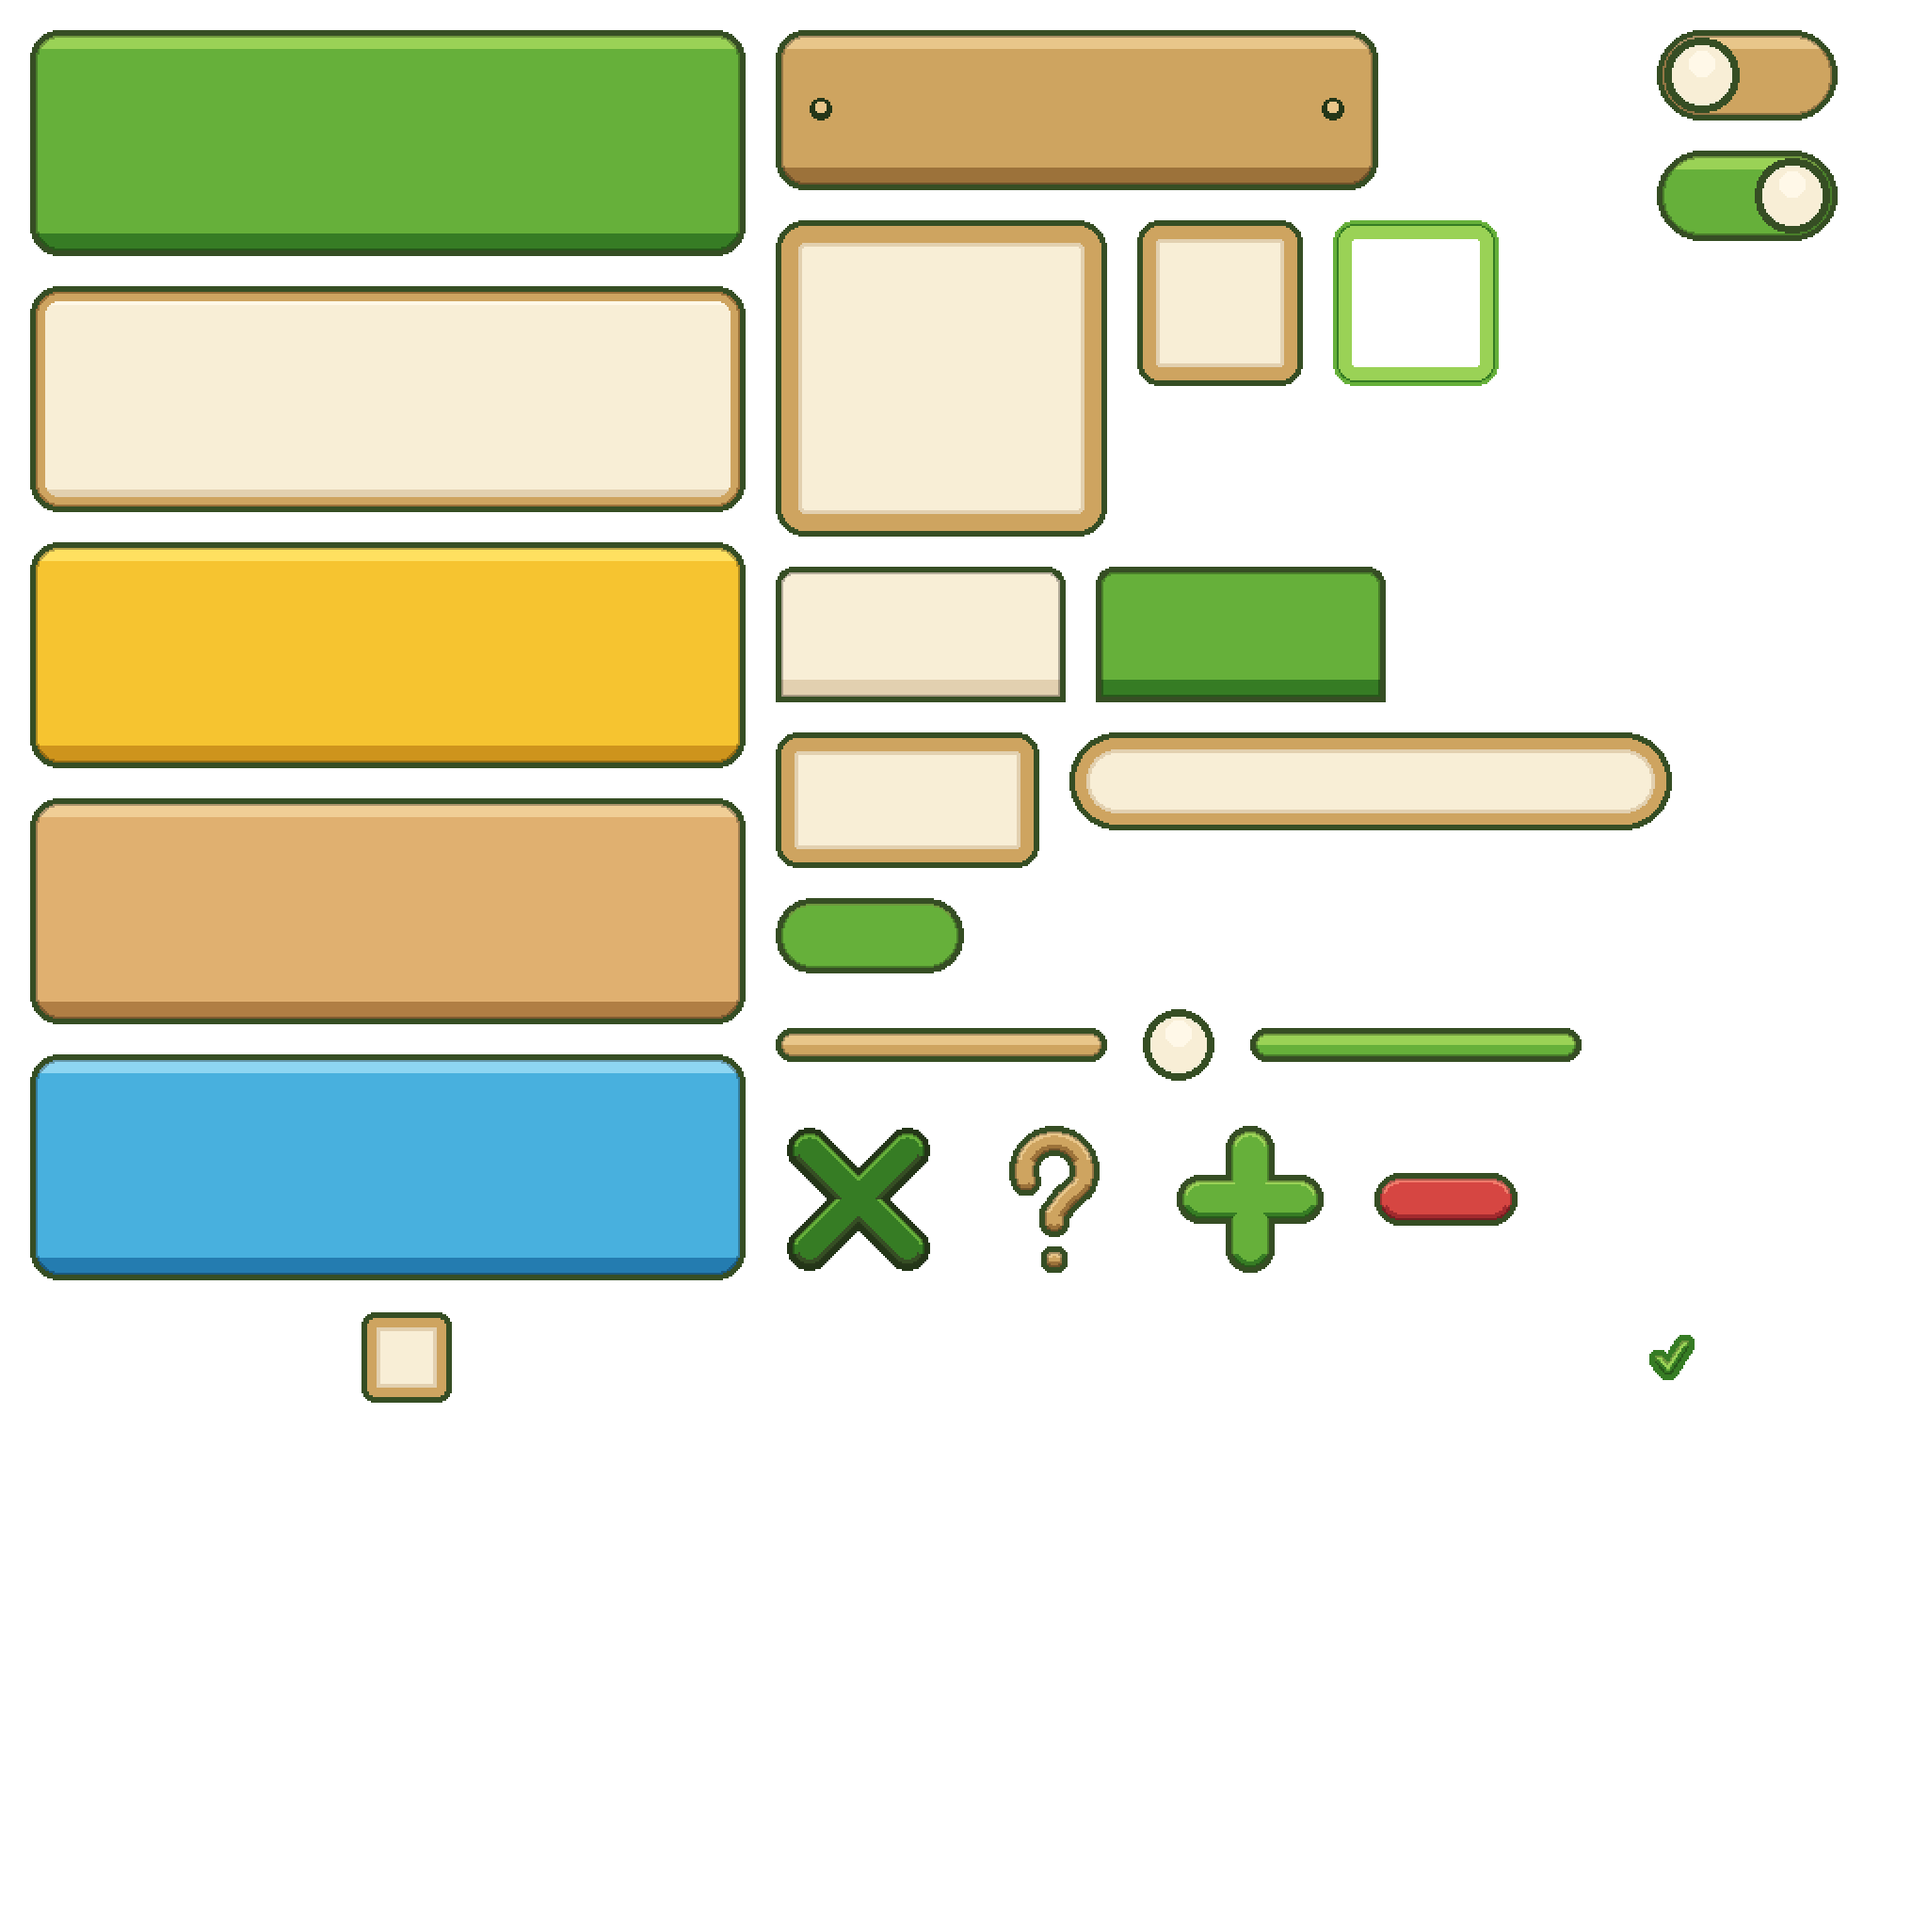
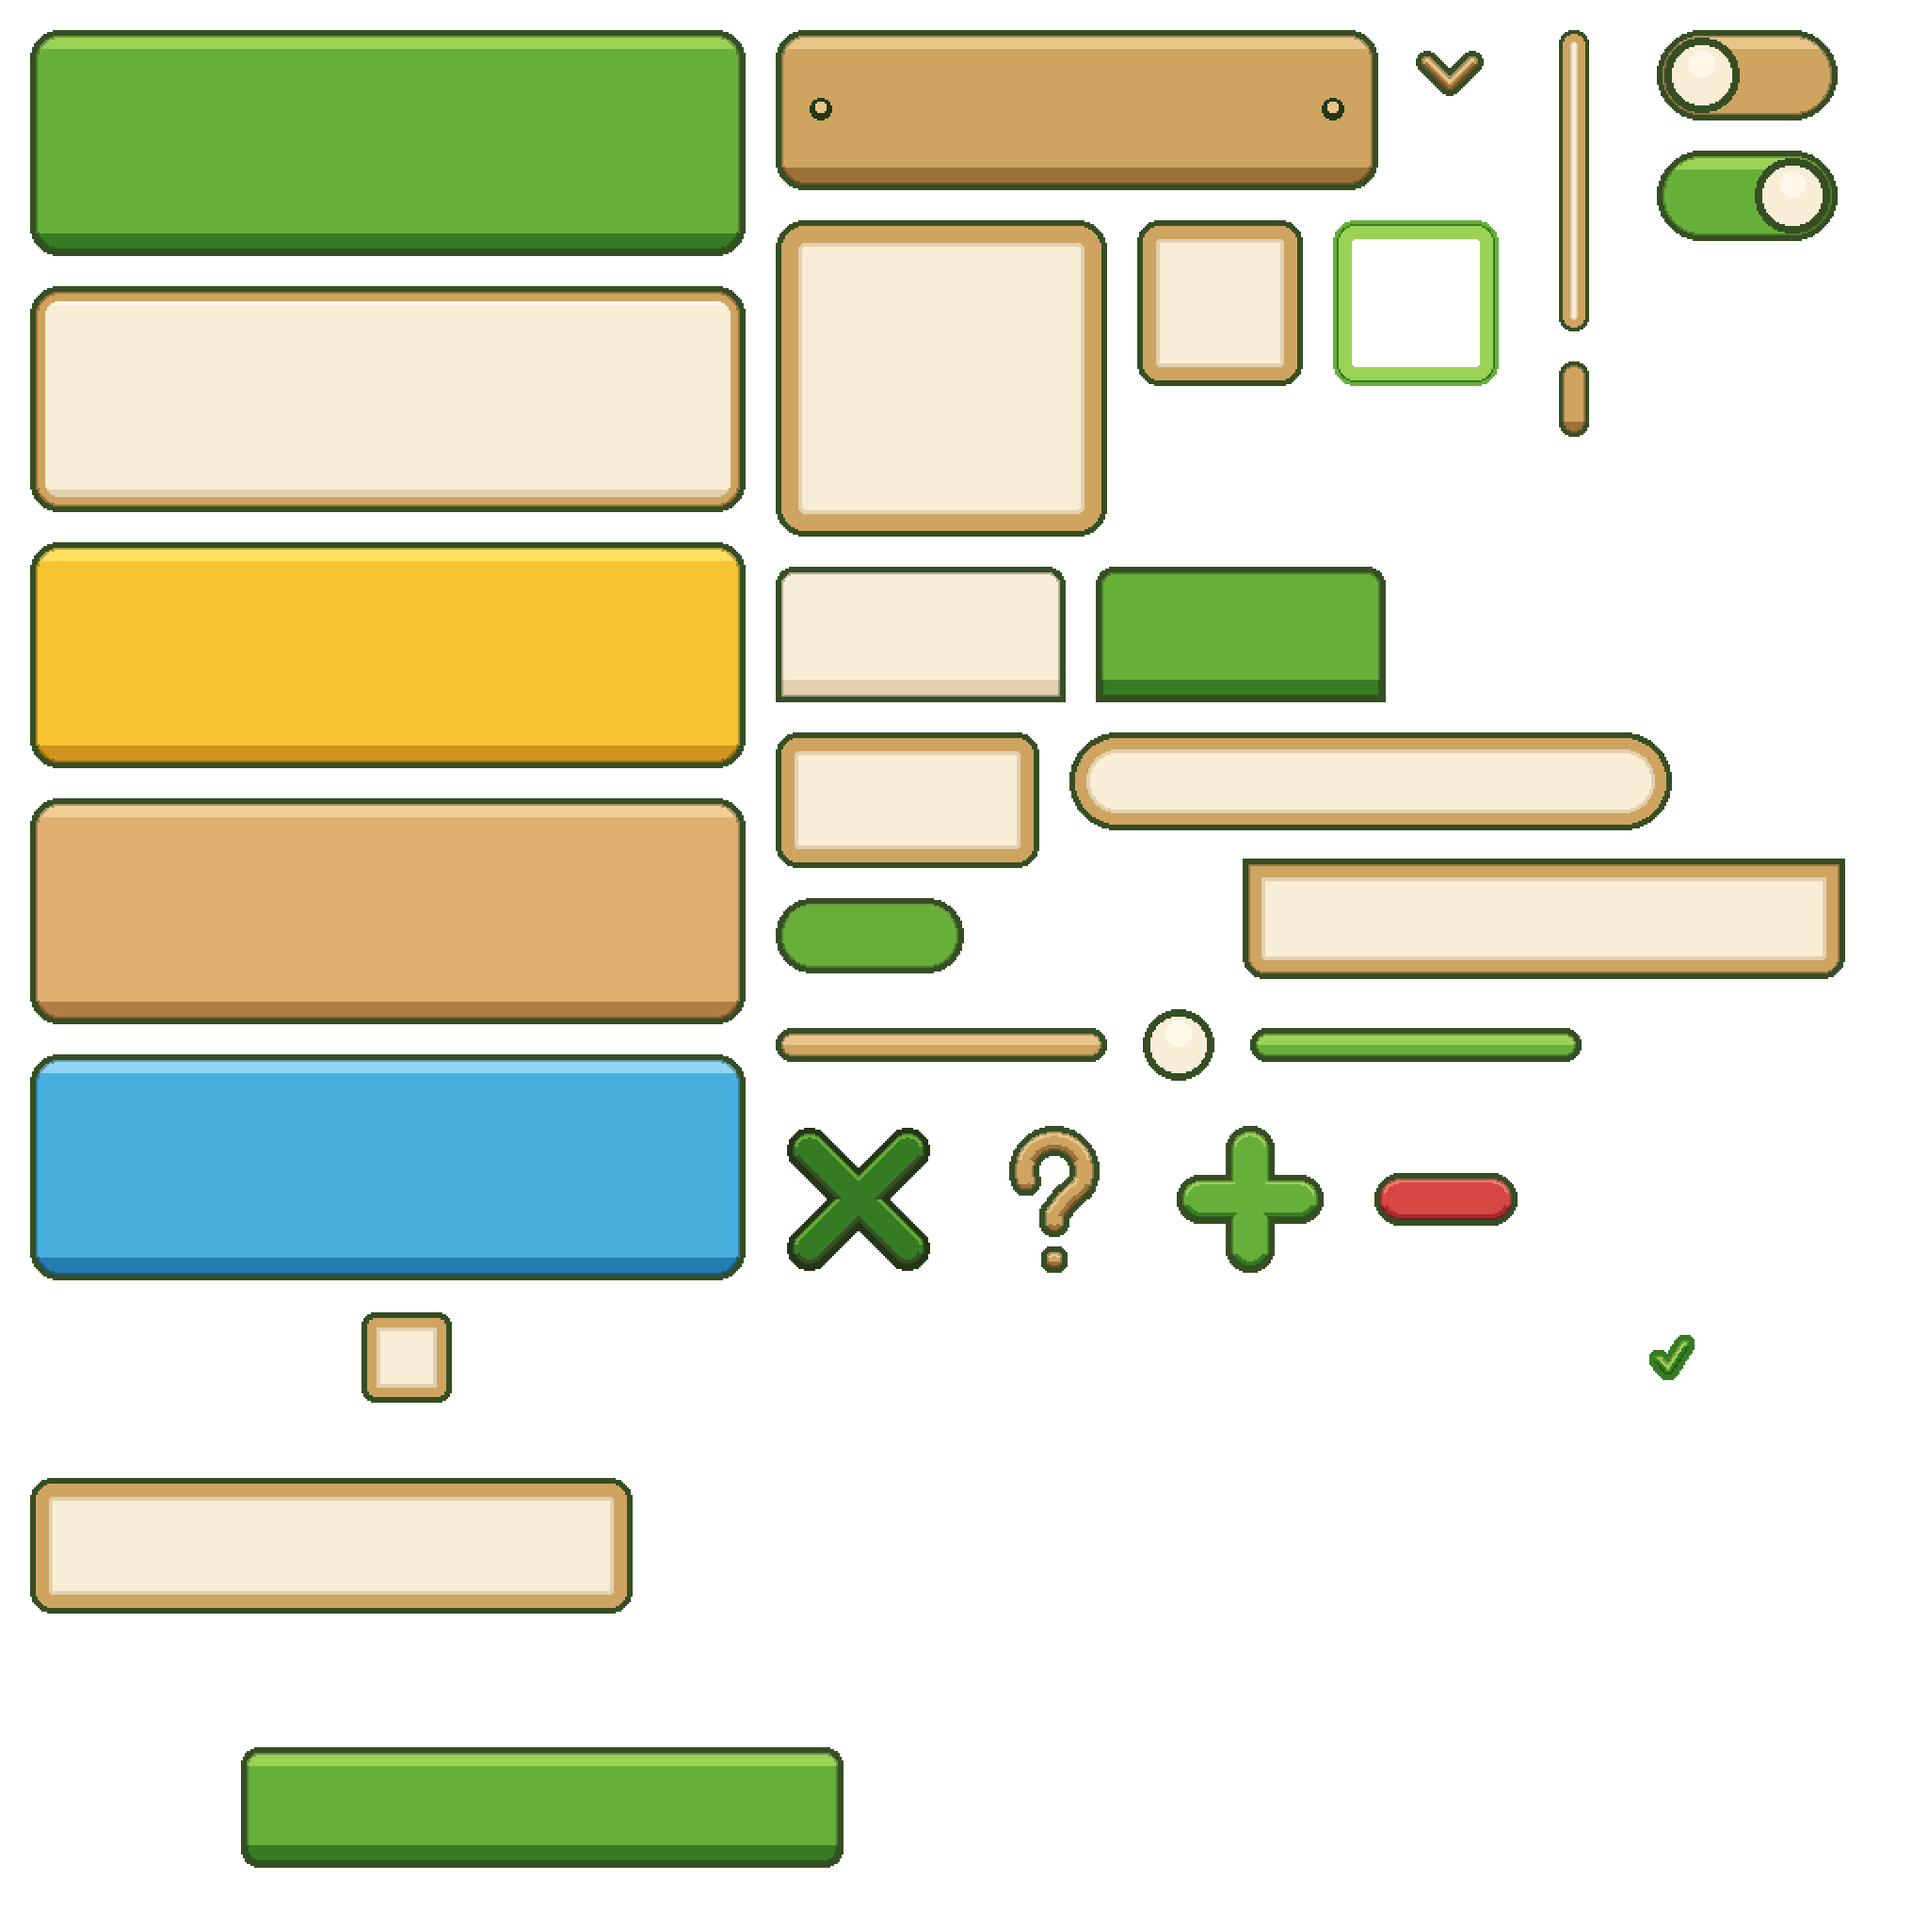
控件图集加下拉框和滚动条，实画 25 -> 31。
新增 dropdown（收起态盒子，和面板同一套浅橡木）、dropdown_list（列表底板，
上边直角贴住盒子）、dropdown_item_on（选中行草地绿板）、icon_arrow（下尖 ∨）、
scrollbar（细长木框，16 宽）、scrollbar_thumb（浅橡木胶囊，16 宽，
九宫格上下各 12 让圆头纵向拉伸不走形）。

滚动条最初画成 32 宽，实际显示太粗，改成 16 宽重画：细描边 2、
圆角取半宽、不加顶部高光带。不用 scale 缩放，缩放会把高度一起缩掉。

预留槽 8 -> 5（radio / input / badge / toast / count_plate 仍空）。

diff --git a/style/ZooV7/控件/说明.md b/style/ZooV7/控件/说明.md
@@ -33,12 +33,20 @@
 | `switch_on` | 开关打开。草地绿胶囊，奶油圆钮在右。显示尺寸 96×48，不拉伸 | 母版上没有 |
 | `checkbox` | 勾选框。浅橡木框，中间奶油，没有勾。显示尺寸 48×48，不拉伸 | 母版上没有 |
 | `checkbox_mark` | 勾。草地绿，叠在勾选框上。显示尺寸 48×48，不拉伸 | 母版上没有 |
+| `dropdown` | 下拉收起态的盒子。浅橡木框、奶油底。显示尺寸 320×72，九宫格 | 按面板那套画的 |
+| `dropdown_list` | 下拉展开列表的底板。上边直、下边圆角，贴住盒子看不出缝。显示尺寸 320×64，九宫格上边为 0 | 母版上没有 |
+| `dropdown_item_on` | 选中那一行的底板。草地绿圆角板。显示尺寸 320×64，九宫格 | 母版上没有 |
+| `icon_arrow` | 下拉右侧箭头，下尖的 ∨。显示尺寸 44×44，不拉伸。展开时控件转 180° | 母版上没有 |
+| `scrollbar` | 滚动条槽。细长木框、中间奶油。显示尺寸 32×160，九宫格 | 母版上没有 |
+| `scrollbar_thumb` | 滚动条滑块。浅橡木胶囊，九宫格上下各 16，纵向拉伸圆头不走形。显示尺寸 32×64 | 母版上没有 |
 
 圆钮这一组是三件：`slider_track` 是背景，`slider_fill` 是前景，`slider_thumb` 是圆钮。两条都是细条，绿的叠在木的上面当进度。`bar_bg` 和 `bar_fill` 是另一对长的经验条，不是这组。
 
 开关是两张，圆钮画在图里。`switch_off` 是浅橡木，圆钮在左。`switch_on` 是草地绿，圆钮在右。不占 `checkbox`。
 
 勾选框是两张。`checkbox` 是浅橡木框。`checkbox_mark` 是草地绿的勾，勾上才叠上去。不占 `switch_off`、`switch_on`。
+
+下拉是四张：`dropdown` 收起态盒子、`dropdown_list` 展开列表底板（上边直角贴住盒子）、`dropdown_item_on` 选中行绿板、`icon_arrow` 箭头。滚动条是两张：`scrollbar` 槽、`scrollbar_thumb` 滑块（九宫格上下各 16，纵向拉伸时圆头保持原比例）。
 
 ## 预留
 
@@ -49,8 +57,5 @@
 | `radio` | 单选 |
 | `input` | 输入框 |
 | `badge` | 角标 |
-| `dropdown` | 下拉 |
 | `toast` | 提示条 |
 | `count_plate` | 数量牌 |
-| `scrollbar` | 滚动条 |
-| `scrollbar_thumb` | 滚动条滑块 |

diff --git a/style/ZooV7/控件/prompt.md b/style/ZooV7/控件/prompt.md
@@ -14,7 +14,7 @@
 - 脚本：`tools/draw-zoo-v7-ctrl.mjs`
 - 画布 2048×2048。在显示尺寸上画硬边，最近邻放大 2 倍。空白像素 alpha 为 0。
 - 不把 v7 的 1024 图放大。v7 按钮写的是 288×80，和 2 倍规则不一致，只作风格对照。
-- 已画 25 个。原先数出来是 21 个（票面写过 20）。开关是 `switch_off`、`switch_on`。勾选框是 `checkbox`、`checkbox_mark`。另有 8 个空槽，`reserved` 为 true，图上不画。已有那 21 件的位置和画法不动。
+- 已画 31 个。原先数出来是 21 个（票面写过 20）。开关是 `switch_off`、`switch_on`。勾选框是 `checkbox`、`checkbox_mark`。下拉是 `dropdown`、`dropdown_list`、`dropdown_item_on`、`icon_arrow`。滚动条是 `scrollbar`、`scrollbar_thumb`。另有 5 个空槽，`reserved` 为 true，图上不画。已有那 25 件的位置和画法不动。
 
 ## 历史
 

diff --git a/style/ZooV7/控件/history/v8/结论.md b/style/ZooV7/控件/history/v8/结论.md
@@ -5,6 +5,8 @@
 开关是两张：关掉浅橡木、圆钮在左；打开草地绿、圆钮在右。不占 checkbox。
 勾选框是浅橡木框，勾是单独一张草地绿。不占开关。
 选中框盖住木格的深色描边和浅橡木圈。浅橡木那一圈用浅草地绿，中间透空。
+下拉是四张：盒子沿用面板那圈浅橡木，列表底板的上边是直的（贴住盒子），选中行是草地绿板，箭头是浅橡木的 ∨。
+滚动条两张：槽是细长木框奶油，滑块是浅橡木胶囊（九宫格上下各 16，纵向拉伸圆头不走形）。
 叉、问号、加号、减号是圆角描边。问号用浅橡木，叉用按钮的深绿。
 风格句用 `style/ZooV7/style.md`。母版只作对照：`style/ZooV7/控件/history/v7/ui-sheet-v7.png`。
 没有调用绘图接口，也没有把 v7 的 1024 图放大。
